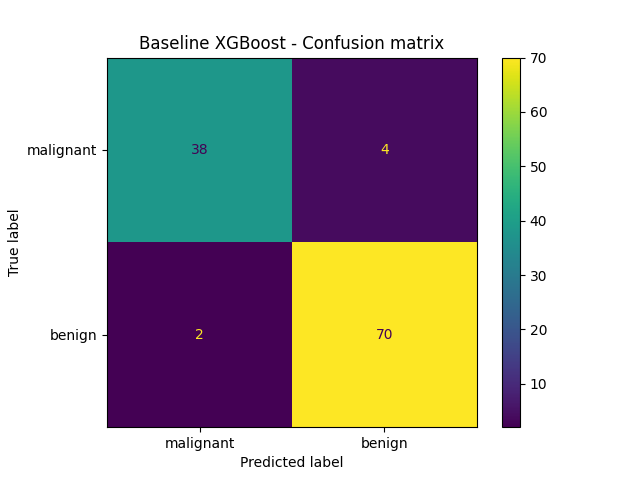
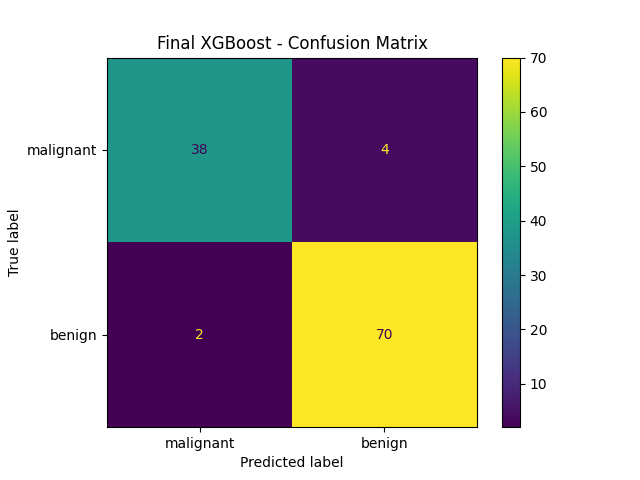
ex for load breast cancer

Changed region(s): [[0.2188, 0.0625, 0.6875, 0.125]]

diff --git a/05a1-XGBoost/ex02-load_breast_cancer.py b/05a1-XGBoost/ex02-load_breast_cancer.py
@@ -240,4 +240,256 @@ param_grid = {
 print("\nParameter grid:")
 print(param_grid)
 
-#grid
+#grid search + cross validation
+
+grid_search = GridSearchCV(
+    estimator= XGBClassifier(
+        random_state=42,
+    ),
+
+    param_grid=param_grid,
+    cv=cv,
+    scoring="accuracy",
+    n_jobs=1,
+    verbose=2,
+)
+
+grid_search.fit(X_train, y_train)
+
+#best parameters
+print("\nBest parameters:")
+print(grid_search.best_params_)
+print("\nBest cv accuracy:")
+print(f"{grid_search.best_score_:.4f}")
+
+#best model
+best_model = grid_search.best_estimator_
+print("\nBest model:")
+print(best_model)
+
+#final prediction
+
+y_pred_final = best_model.predict(X_test)
+y_proba_final = best_model.predict_proba(X_test)[:,1]
+
+#final evaluation
+final_accuracy = accuracy_score(y_test, y_pred_final)
+final_precision = precision_score(y_test, y_pred_final)
+final_recall = recall_score(y_test, y_pred_final)
+final_f1 = f1_score(y_test, y_pred_final)
+final_auc = roc_auc_score(y_test, y_proba_final)
+
+print("\nFinal accuracy:")
+print(final_accuracy)
+print("\nFinal precision:")
+print(final_precision)
+print("\nFinal recall:")
+print(final_recall)
+print("\nFinal F1:")
+print(final_f1)
+print("\nFinal ROC-AUC:")
+print(final_auc)
+
+#final classification report
+cm_final = confusion_matrix(y_test, y_pred_final)
+
+print("\nFinal Confusion Matrix:")
+print(cm_final)
+
+disp = ConfusionMatrixDisplay(
+    confusion_matrix=cm_final,
+    display_labels=data.target_names
+)
+
+disp.plot()
+
+plt.title(
+    "Final XGBoost - Confusion Matrix"
+)
+plt.savefig("confusion_matrix.png")
+
+plt.show()
+
+#roc - auc curve
+
+fpr, tpr, thresholds = roc_curve(
+    y_test,
+    y_proba_final
+)
+
+plt.figure(figsize=(7, 5))
+
+plt.plot(
+    fpr,
+    tpr,
+    label=f"AUC = {final_auc:.4f}"
+)
+
+plt.plot(
+    [0, 1],
+    [0, 1],
+    linestyle="--"
+)
+
+plt.xlabel(
+    "False Positive Rate"
+)
+
+plt.ylabel(
+    "True Positive Rate"
+)
+
+plt.title(
+    "XGBoost ROC Curve"
+)
+
+plt.legend()
+plt.savefig("roc_curve.png")
+
+plt.show()
+
+
+ 
+# 27. FEATURE IMPORTANCE
+ 
+
+print("\n" + "=" * 70)
+print("FEATURE IMPORTANCE")
+print("=" * 70)
+
+feature_importance = pd.Series(
+    best_model.feature_importances_,
+    index=X.columns
+)
+
+feature_importance = (
+    feature_importance
+    .sort_values(ascending=False)
+)
+
+print(
+    feature_importance.head(15)
+)
+
+
+ 
+# 28. FEATURE IMPORTANCE VISUALIZATION
+ 
+
+top_features = (
+    feature_importance
+    .head(15)
+    .sort_values()
+)
+
+plt.figure(figsize=(8, 6))
+
+top_features.plot(
+    kind="barh"
+)
+
+plt.title(
+    "Top 15 XGBoost Feature Importance"
+)
+
+plt.xlabel(
+    "Importance"
+)
+
+plt.tight_layout()
+plt.savefig("feature_importance.png")
+
+plt.show()
+
+
+ 
+# 29. TRAIN VS TEST
+ 
+
+print("\n" + "=" * 70)
+print("TRAIN VS TEST")
+print("=" * 70)
+
+train_pred = best_model.predict(
+    X_train
+)
+
+test_pred = best_model.predict(
+    X_test
+)
+
+train_accuracy = accuracy_score(
+    y_train,
+    train_pred
+)
+
+test_accuracy = accuracy_score(
+    y_test,
+    test_pred
+)
+
+gap = (
+    train_accuracy -
+    test_accuracy
+)
+
+print(
+    f"Train Accuracy: {train_accuracy:.4f}"
+)
+
+print(
+    f"Test Accuracy : {test_accuracy:.4f}"
+)
+
+print(
+    f"Accuracy Gap  : {gap:.4f}"
+)
+
+
+ 
+# 30. FINAL SUMMARY
+ 
+
+print("\n" + "=" * 70)
+print("FINAL SUMMARY")
+print("=" * 70)
+
+print(
+    f"Best Parameters: {grid_search.best_params_}"
+)
+
+print(
+    f"Best CV Score  : {grid_search.best_score_:.4f}"
+)
+
+print(
+    f"Test Accuracy  : {final_accuracy:.4f}"
+)
+
+print(
+    f"Test Precision : {final_precision:.4f}"
+)
+
+print(
+    f"Test Recall    : {final_recall:.4f}"
+)
+
+print(
+    f"Test F1        : {final_f1:.4f}"
+)
+
+print(
+    f"Test ROC-AUC   : {final_auc:.4f}"
+)
+
+print(
+    f"Train Accuracy : {train_accuracy:.4f}"
+)
+
+print(
+    f"Accuracy Gap   : {gap:.4f}"
+)
+
+
+
+
